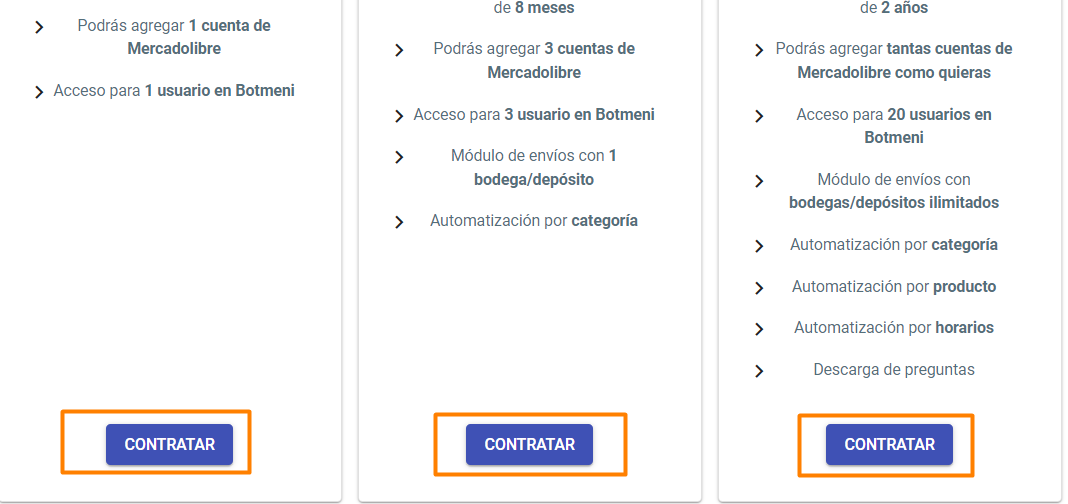
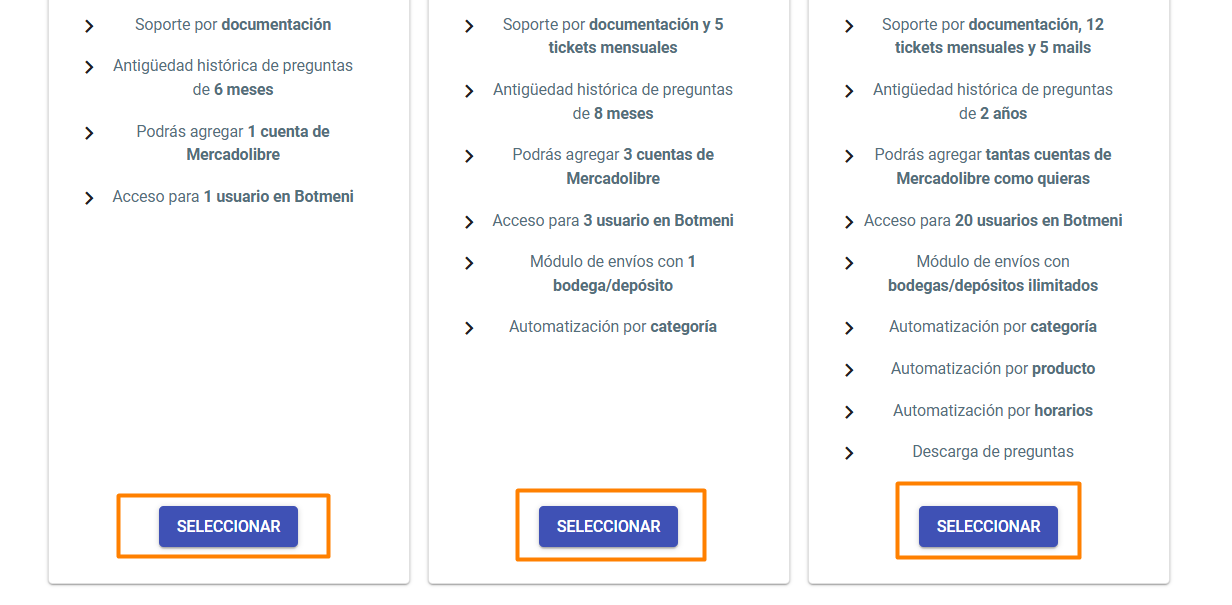
25 11 1

diff --git a/content/docs/administra_tu_cuenta/Tu_Perfil/Pasos_inicio.md b/content/docs/administra_tu_cuenta/Tu_Perfil/Pasos_inicio.md
@@ -17,16 +17,27 @@ Para comenzar con la prueba gratuita de 15 días:
 {{< figure width="560px" height="400px" src="/images/general/inicio0.png" >}}
 2. Presiona sobre la sección PRECIOS.
 {{< figure width="560px" height="400px" src="/images/general/inicio1.png" >}}
-3. Se deplegará la información de los planes de Botmeni para Mercado Libre, con el detalle de los beneficios y funciones disponibles en cada uno. Presiona el triángulo invertido en el recuadro País, para visualizar el listado de países donde nuestra plataforma brinda servicios.
+3. Se deplegará la información de los planes de Botmeni para Mercado Libre, con el detalle de los beneficios y funciones disponibles en cada uno. En el recuadro País aparecerá seleccionado tu país. 
+{{< figure width="560px" height="400px" src="/images/general/precios1.png" >}}
+4. Si deseas modificar el país seleccionado, presiona el triángulo invertido para visualizar el listado de países donde nuestra plataforma brinda servicios.
 {{< figure width="560px" height="400px" src="/images/general/inicio2.png" >}}
 
-4. Selecciona el país al que pertenece tu cuenta de Mercado Libre.
+5. Selecciona del listado el país al que pertenece tu cuenta de Mercado Libre.
 {{< figure width="560px" height="400px" src="/images/general/inicio3.png" >}}
-5. A continuación, selecciona la cantidad de preguntas en el campo Cantidad de preguntas. 
+6. A continuación, selecciona la cantidad de preguntas en el campo Cantidad de preguntas. 
 {{< figure width="560px" height="400px" src="/images/general/inicio5.png" >}}
-6. Una vez elegidos el país y la cantidad de preguntas, se detallará el precio correspondiente en cada uno de los planes disponibles. Puedes modificar la cantidad de preguntas para conocer los precios para cada combinación de cantidad de preguntas y tipo de plan, y así identificar aquella que se ajusta mejor a las necesidades de tu tienda. 
+7. Si necesitas que te ayudemos para conocer la cantidad de preguntas de tu cuenta en Mercado libre en los últimos meses, presiona el recuadro ¿Cuántas preguntas necesito?
+{{< figure width="560px" height="400px" src="/images/general/cuantaspreguntas1.png" >}}
+8. Ingresa tu email, el nickname de la o las cuentas de Mercado Libre sobre las que deseas consultar, y escribe tu consulta en el recuadro Aclaraciones. Luego presiona ENVIAR. Nuestro equipo de soporte te enviará la información al correo electrónico.
+{{< figure width="560px" height="400px" src="/images/general/cuantaspreguntas2.png" >}}
+9. Para consultar por una cantidad de preguntas mayor a las detalladas en el listado, presiona sobre la leyenda Por planes más grandes, click aquí. 
+{{< figure width="560px" height="400px" src="/images/general/planesgrandes.png" >}}
+10. Ingresa los campos del formulario y presiona ENVIAR. Nuestro equipo de ventas se contactará para brindarte el asesoramiento que necesites.
+{{< figure width="560px" height="400px" src="/images/general/preguntasmasgrandes1.png" >}}
+11. Una vez elegidos el país y la cantidad de preguntas, se detallará el precio correspondiente en cada uno de los planes disponibles. Puedes modificar la cantidad de preguntas para conocer los precios para cada combinación de cantidad de preguntas y tipo de plan, y así identificar aquella que se ajusta mejor a las necesidades de tu tienda. 
 {{< figure width="560px" height="400px" src="/images/general/inicio6.png" >}}
-7. Cuando hayas identificado la cantidad de preguntas y el plan que deseas utilizar en tu prueba gratis, presiona el botón CONTRATAR en el plan deseado. Recuerda que los primeros 15 días son gratuitos, y que puedes cancelar la suscripción en el momento que lo desees.
+
+12. Cuando hayas seleccionado la cantidad de preguntas y el plan que deseas utilizar en tu prueba gratis, presiona el botón SELECCIONAR en el plan deseado. Recuerda que los primeros 15 días son gratuitos, y que puedes cancelar la suscripción en el momento que lo desees.
 {{< figure width="560px" height="400px" src="/images/general/inicio7.png" >}}
 8. Se desplegará un formulario de registro, para crear tu usuario principal de Botmeni. 
 {{< figure width="560px" height="400px" src="/images/general/inicio8.png" >}}
